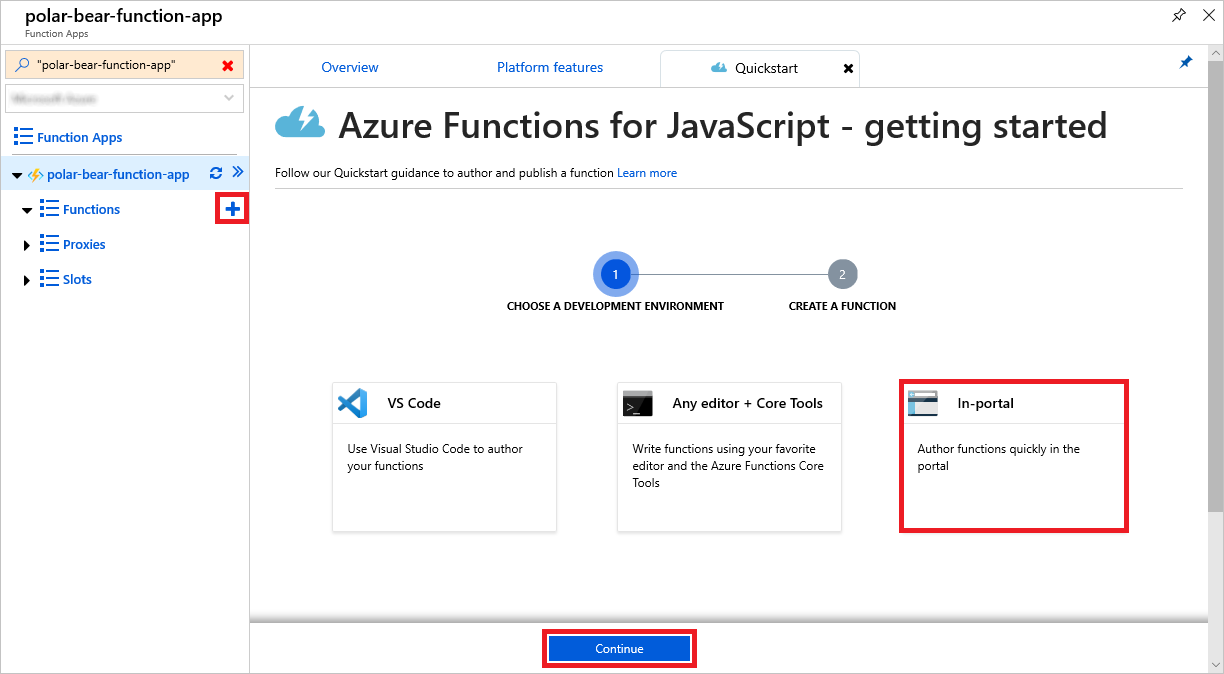
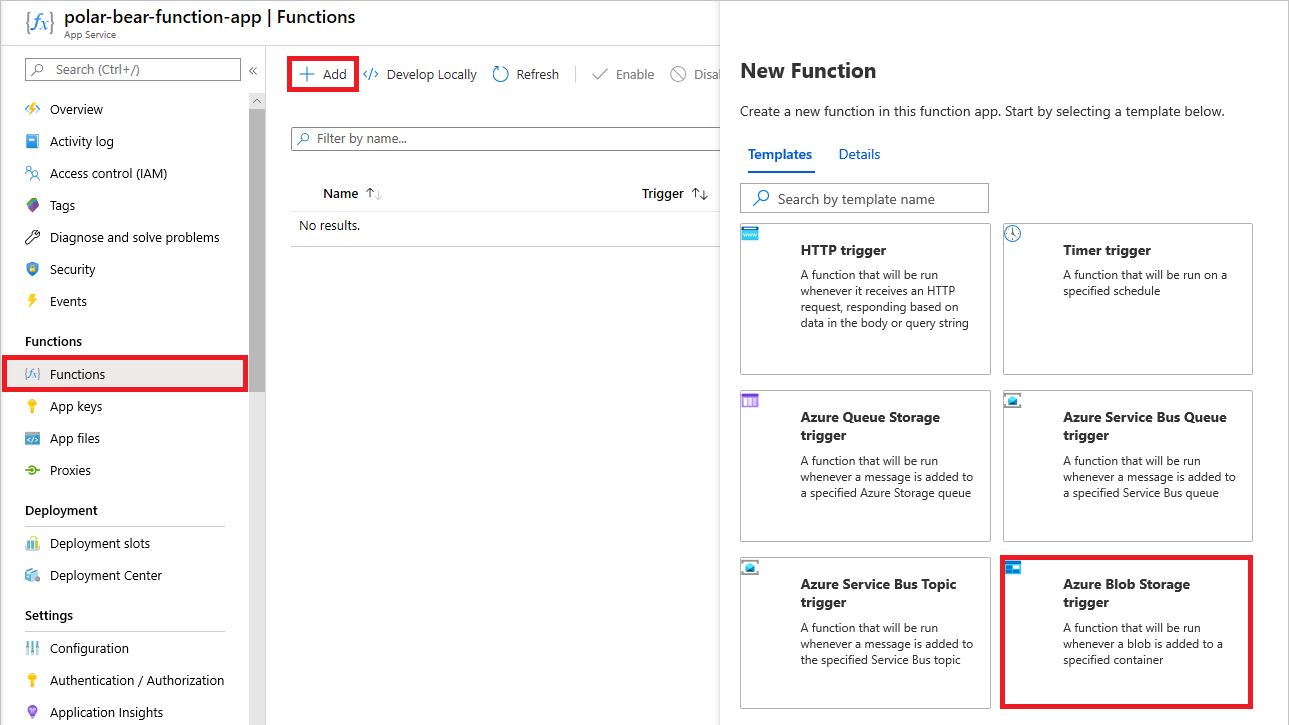
Updated polar-bear module

diff --git a/Combat Climate Change with AI and Azure/includes/3-azure-functions.md b/Combat Climate Change with AI and Azure/includes/3-azure-functions.md
@@ -26,23 +26,15 @@ Azure Functions can be written in the Azure Portal or written externally using t
 
     _Disabling Application Insights_
 
-1. Wait for the Function App to be deployed. Then open it in the Azure Portal and click the **+** sign to the right of **Functions**. Click **In-portal**, and then click **Continue**.
+1. Wait for the Function App to be deployed. Then open it in the Azure Portal and click **Functions** in the menu on the left side of the blade. Click **+ Add**, and then click **Azure Blob Storage trigger**.
 
     ![Adding a function](media/add-function-1.png)
 
     _Adding a function_
 
-1. Click **More templates**. Then click **Finish and view templates**.
+1. Change the function name to `BlobTrigger` and the path to "photos/{name}" so the function will be triggered when blobs are uploaded to the "photos" container. Click **New** under "Storage account connection" and select the storage account that you created earlier. Then click **Create Function** to add the function to the Function App. 
 
-    ![Viewing additional function templates](media/add-function-2.png)
-
-    _Viewing additional function templates_
-
-1. Click **Azure Blob Storage trigger**. If you are prompted to install the `Microsoft.Azure.WebJobs.Extensions.Storage` extension, click the **Install** button. Wait for the extension to be installed, and then click **Continue**. (If you are not prompted to install the extension, you may have to wait a minute or two before proceeding to the next step.)
-
-1. Change the function name to `BlobTrigger` and the path to "photos/{name}" so the function will be triggered when blobs are uploaded to the "photos" container. Click **new** next to "Storage account connection" and select the storage account that you created earlier. Then click **Create** to add the function to the Function App. 
-
-    ![Creating a blob-triggered function](media/add-function-3.png)
+    ![Creating a blob-triggered function](media/add-function-2.png)
 
     _Creating a blob-triggered function_
 
